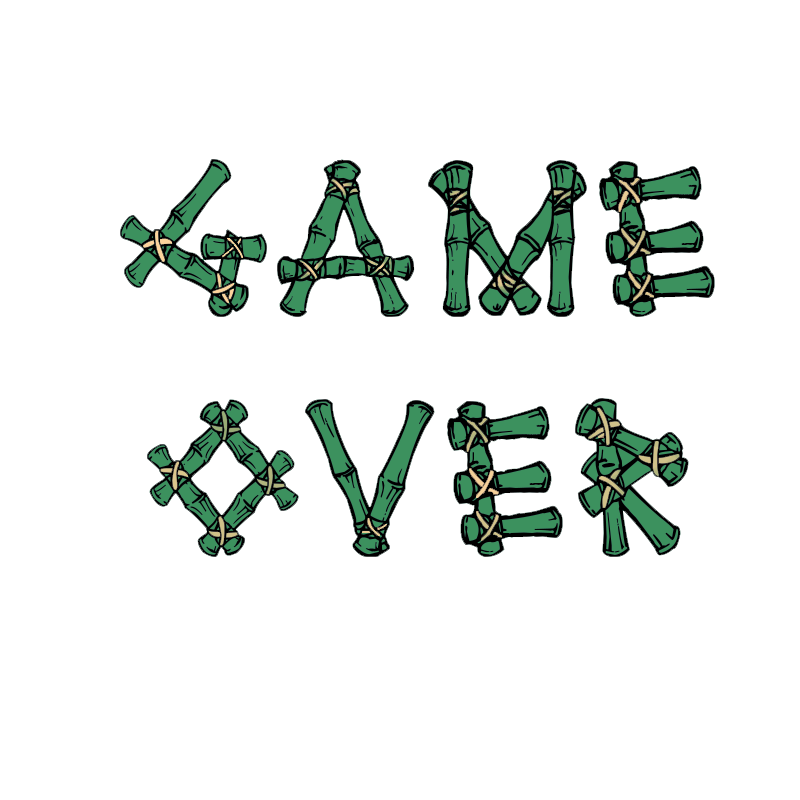
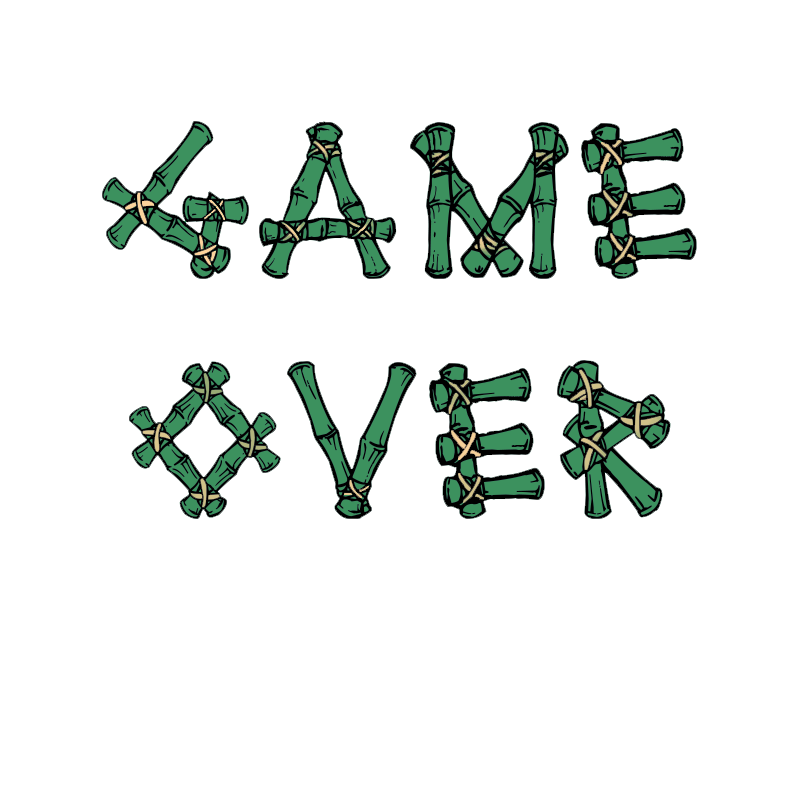
moved game-over.png. moved house-sprite to match the floor. increased score-text stroke-thickness. moved score-text. #20 - Improve game over

Changed region(s): [[0.125, 0.1562, 0.9062, 0.4062], [0.3438, 0.4375, 0.875, 0.7188], [0.1562, 0.4375, 0.375, 0.7188]]

diff --git a/src/test-scene.js b/src/test-scene.js
@@ -132,7 +132,7 @@ class TestScene extends Scene {
             walls.push(right)
         }
 
-        const houseSprite = this.matter.add.image(400, gameHeight - 340, 'house')
+        const houseSprite = this.matter.add.image(400, gameHeight - 365, 'house')
         houseSprite.setCollisionCategory(catBackground);
         houseSprite.setStatic(true)
         for (let i = 0; i < 2; i++) {
@@ -231,7 +231,7 @@ class TestScene extends Scene {
         scoreText = this.add.text(32, 24, scoreString + score, {
             fontSize: 32,
             stroke: 'black',
-            strokeThickness: 1
+            strokeThickness: 5
         });
         scoreText.visible = false;
         gameoverText = this.add.image(32, 24, 'gameover');
@@ -242,7 +242,7 @@ class TestScene extends Scene {
     update() {
         const cam = this.matter.scene.cameras.main
         this.background.setPosition(400, cam._scrollY + viewHeight / 2)
-        scoreText.setPosition(280, cam._scrollY + viewHeight / 2 - 300)
+        scoreText.setPosition(280, cam._scrollY + viewHeight / 2 - 350)
         gameoverText.setPosition(400, cam._scrollY + viewHeight / 2)
 
         if (gameRunning) {

diff --git a/src/main-game.js b/src/main-game.js
@@ -11,7 +11,7 @@ const config = {
         default: 'matter',
         matter: {
             gravity: { y: .5 },
-            debug: true
+            debug: false
         }
     },
     scene: [
